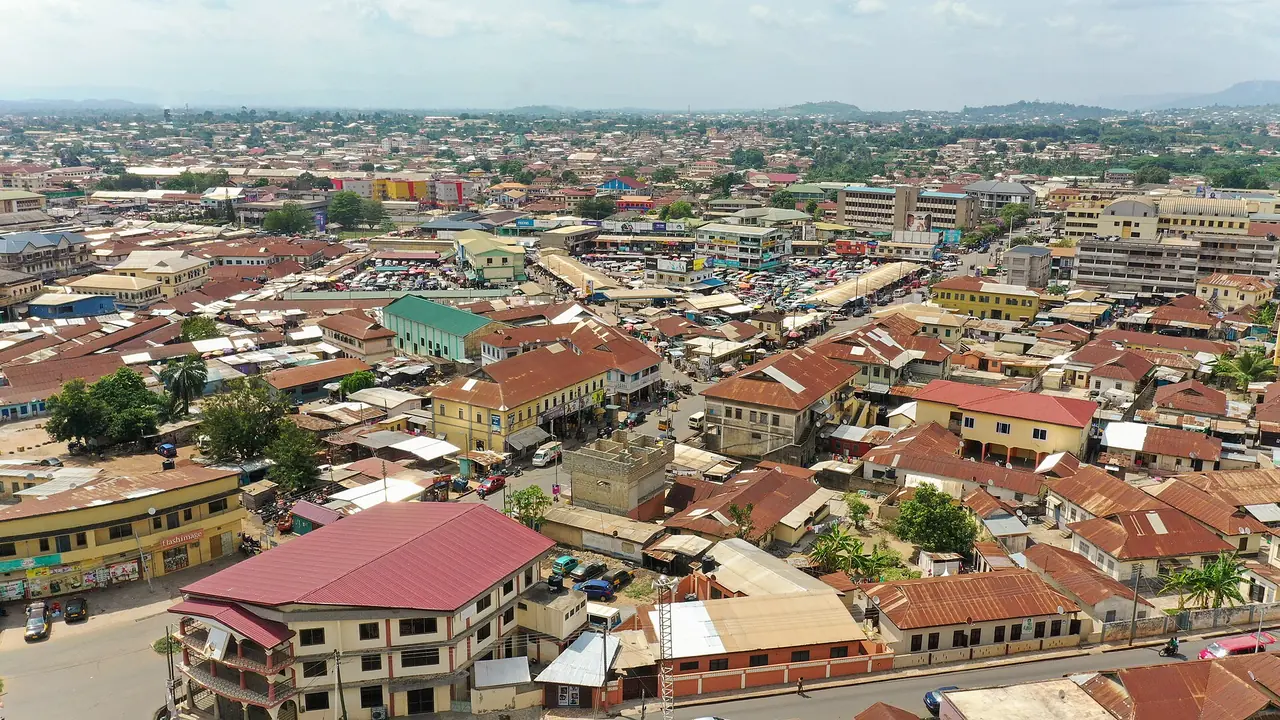
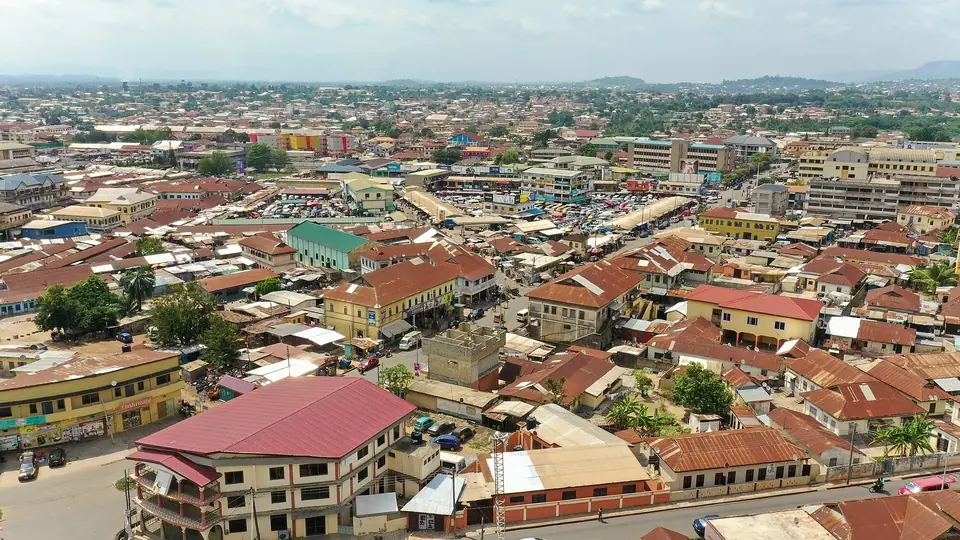
Optimize country page images for audit
Add descriptive weather icon text and update responsive image dimensions.

diff --git a/place.html b/place.html
@@ -21,14 +21,14 @@
             <picture>
                 <source
                     type="image/webp"
-                    srcset="images/place-small.webp 640w, images/place-medium.webp 1280w, images/place-large.webp 1920w"
+                    srcset="images/place-small.webp 640w, images/place-medium.webp 960w, images/place-large.webp 1120w"
                     sizes="(min-width: 1200px) 1200px, 100vw"
                 >
                 <img
                     src="images/place-small.webp"
                     alt="Aerial view of Koforidua township and market in Ghana"
-                    width="1920"
-                    height="1080"
+                    width="1120"
+                    height="630"
                     fetchpriority="high"
                 >
             </picture>
@@ -57,7 +57,7 @@
             </section>
             <section class="info-panel weather-panel" aria-labelledby="weather-heading">
                 <h2 id="weather-heading">Weather</h2>
-                <img class="weather-icon-mobile" src="images/weather-partly-cloudy.svg" alt="" width="72" height="72">
+                <img class="weather-icon-mobile" src="images/weather-partly-cloudy.svg" alt="Partly cloudy" width="72" height="72">
                 <dl>
                     <dt>Temperature:</dt>
                     <dd><span id="temperature">29</span> °C</dd>
@@ -77,7 +77,7 @@
     </main>
     <footer>
         <p>&copy; <span id="currentyear"></span> Akumani Edem | Ghana</p>
-        <p>Last modified: <time id="lastModified"></time></p>
+        <p>Last modified: <time id="lastModified" datetime="2026-11-21">2026-11-21</time></p>
     </footer>
 </body>
 </html>

diff --git a/scripts/place.js b/scripts/place.js
@@ -6,6 +6,8 @@ const temperature = 29;
 const windSpeed = 8;
 
 currentYear.textContent = new Date().getFullYear();
+const modifiedDate = new Date(document.lastModified);
+lastModified.dateTime = modifiedDate.toISOString();
 lastModified.textContent = document.lastModified;
 
 if (temperature <= 10 && windSpeed > 4.8) {
